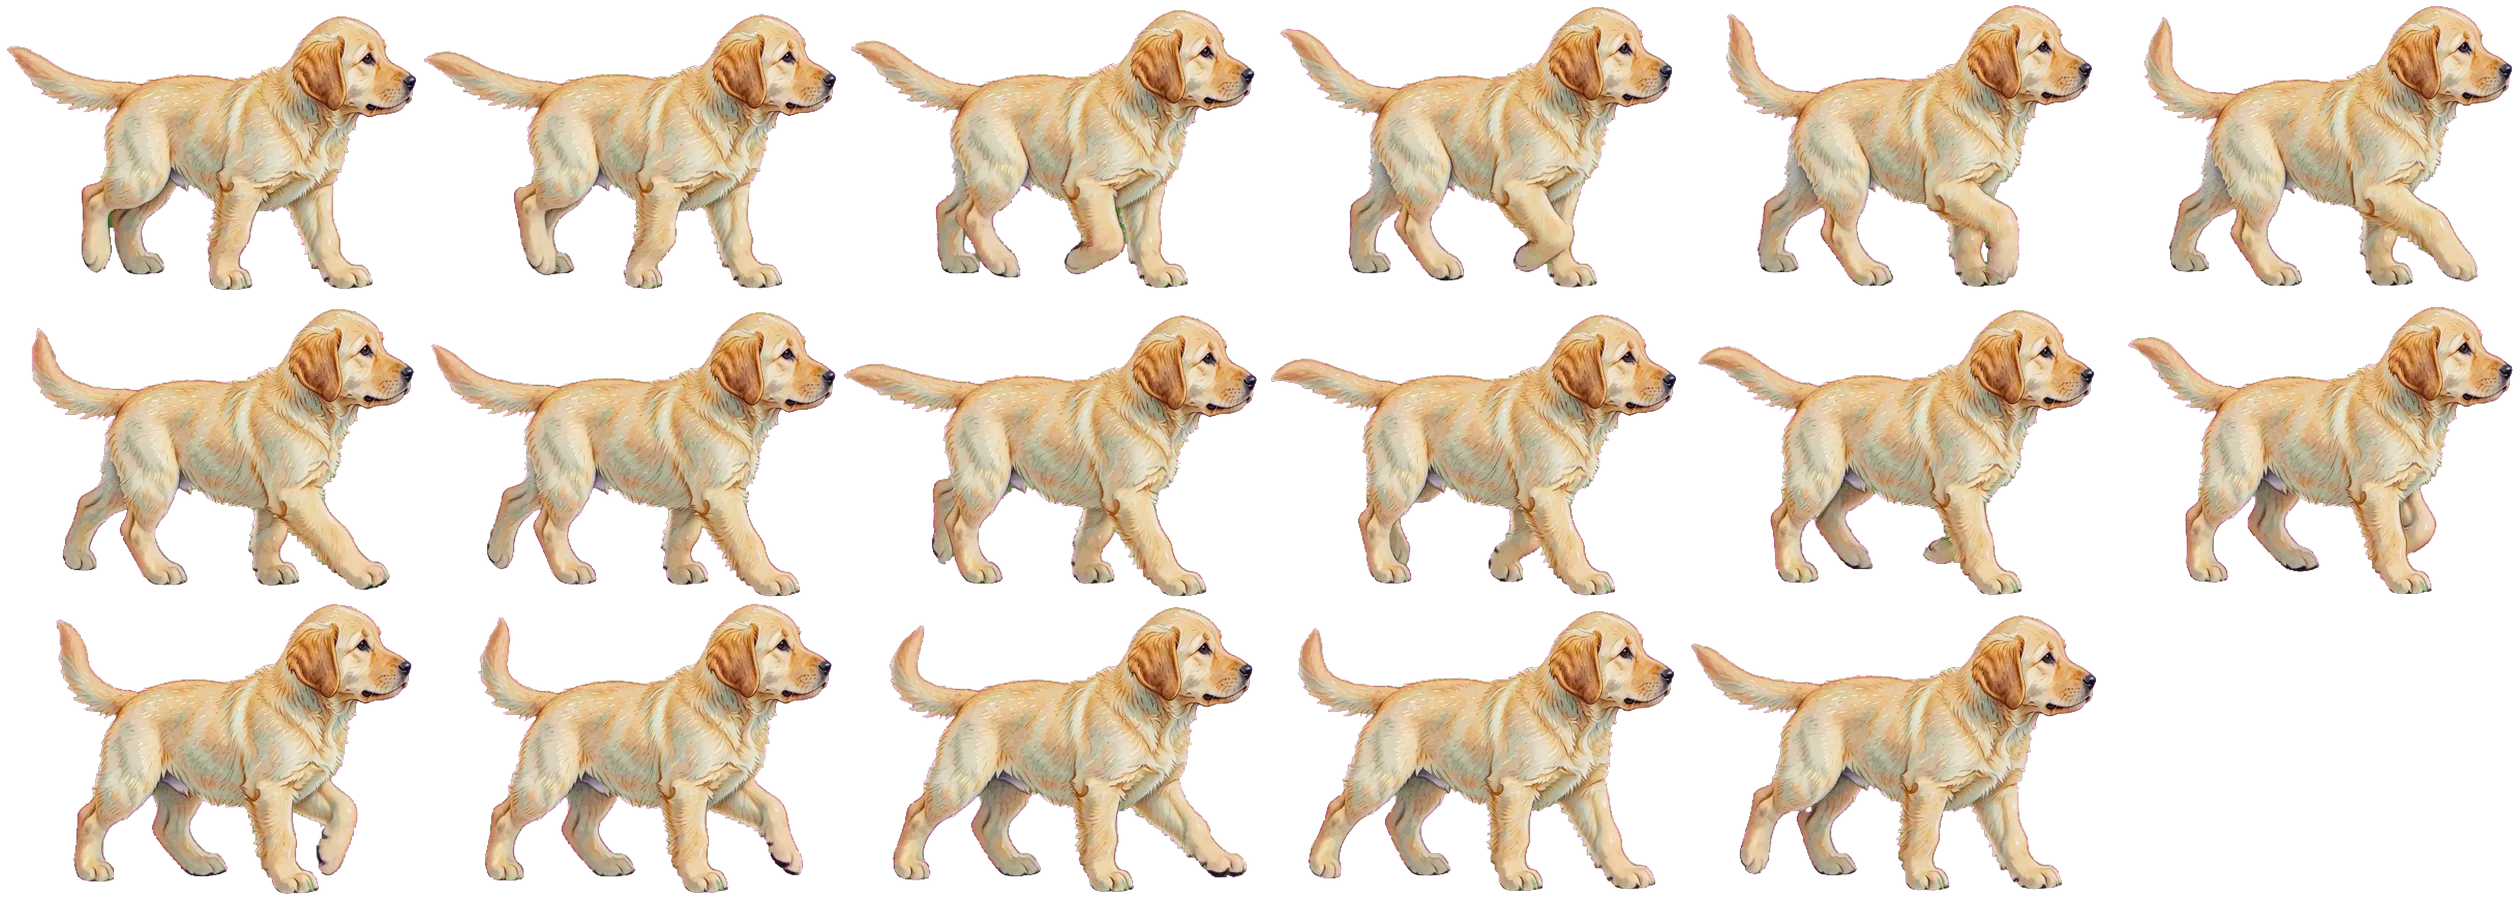
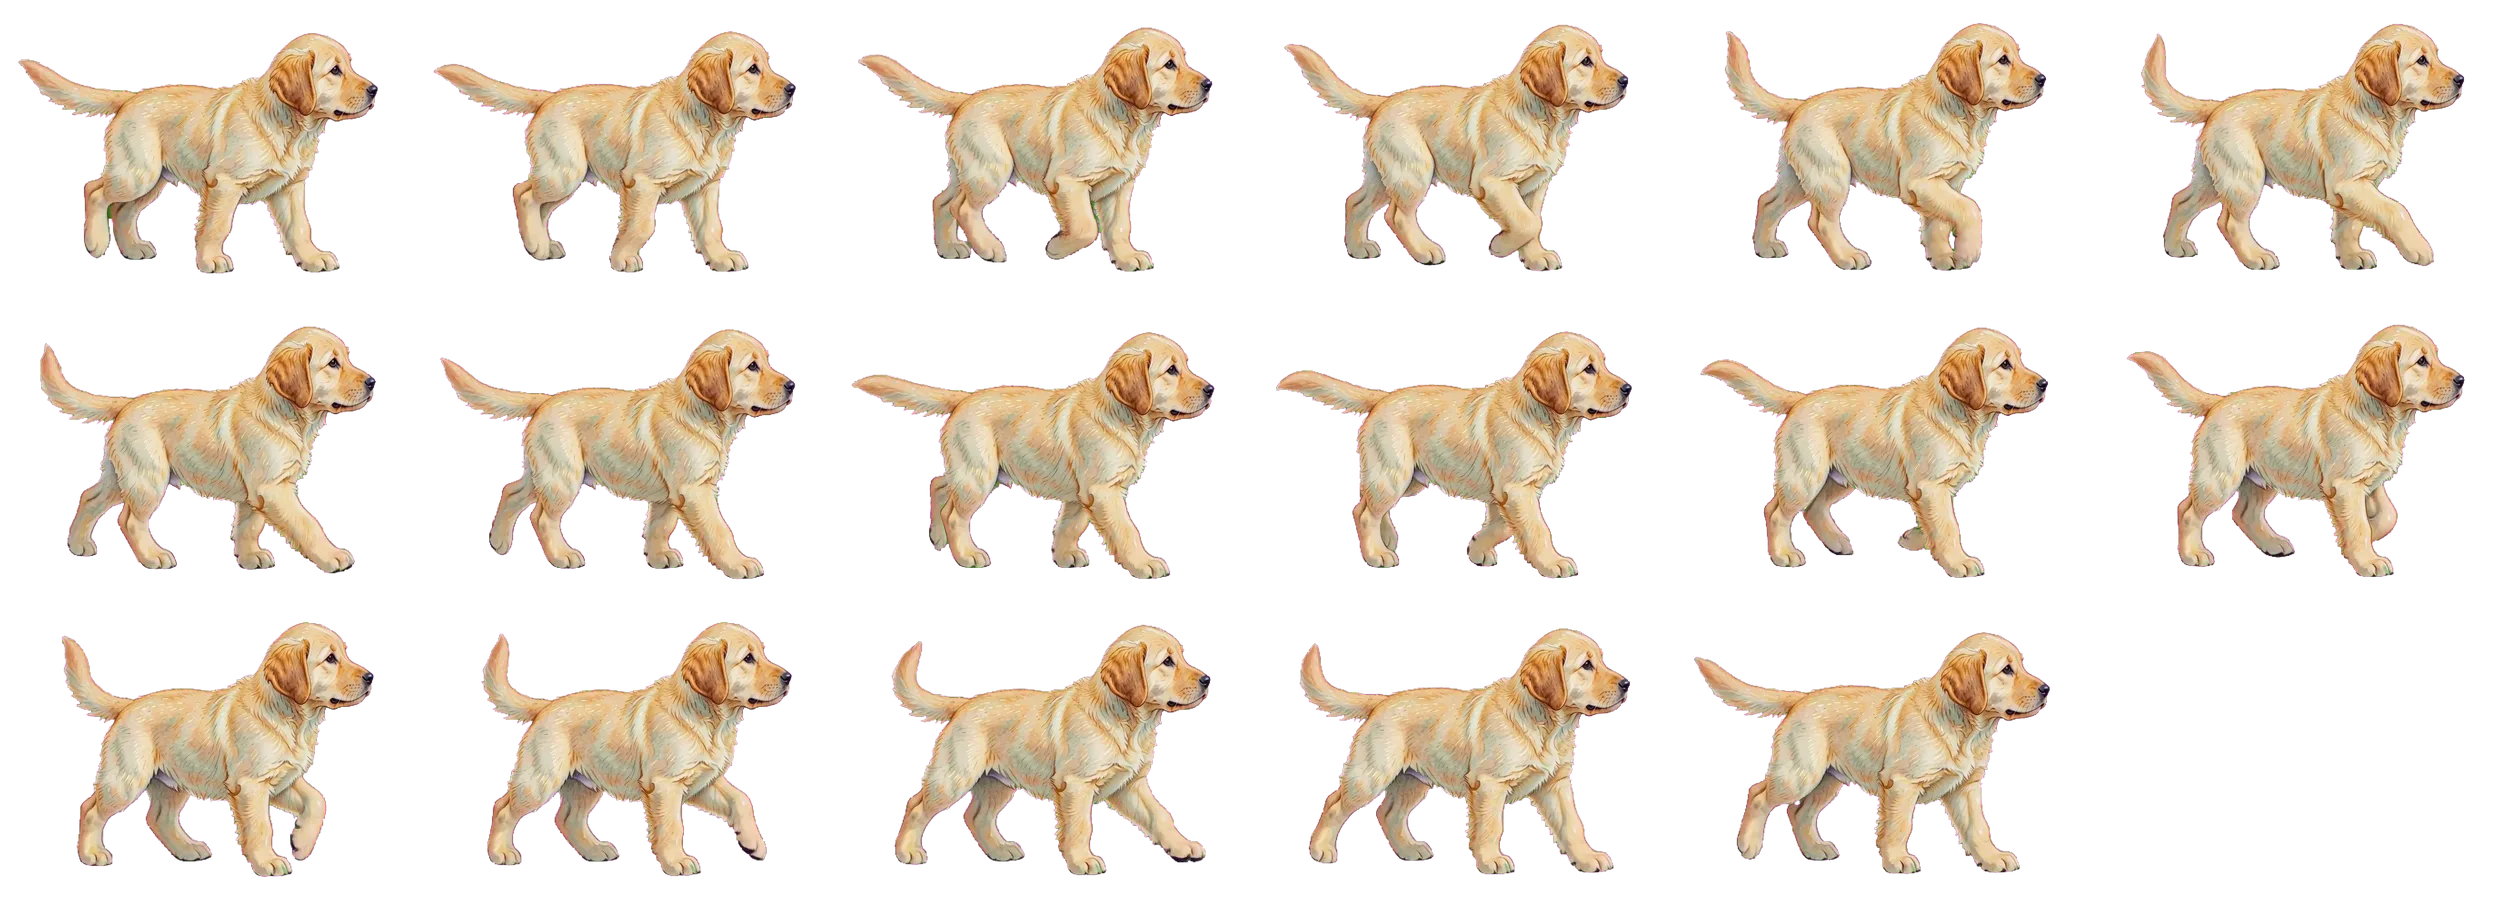
The puppy chases the bluebird about half the times it takes off: it gallops (a generated run clip) along the paths to below where the bird lands and sits down there watching it (a run-to-sit clip), then gets up and strolls on; walk, run and sit share one crop and ground

Changed region(s): [[0.0, 0.0, 1.0, 0.9956], [0.0, 0.6844, 0.0311, 0.7467]]

diff --git a/mobile/src/components/garden/critters/GardenCritters.tsx b/mobile/src/components/garden/critters/GardenCritters.tsx
@@ -3,11 +3,11 @@ import { memo, useEffect, useMemo, useRef, useState } from 'react';
 import { useDerivedValue, useReducedMotion, type SharedValue } from 'react-native-reanimated';
 import { isGardenGroundBlocked, isOnMonthLawn, monthLawnBounds } from '../fairy/gardenGround';
 import { usePlanting } from '../planting/PlantingContext';
-import { residents } from './gardenResidents';
-import { safeSegment, WALK_NETWORK } from '../fairy/walkNetwork';
+import { onBirdFlight, residents } from './gardenResidents';
+import { route, safeSegment, WALK_NETWORK, type Point } from '../fairy/walkNetwork';
 import SheetFrame from '../SheetFrame';
 import {
-  AWAY_SECONDS, burstLength, CRITTERS, leaveVisit, nextGap, planNextLeg, planVisit, pointAlong, visitDistance, visitPose, walkableEdges,
+  AWAY_SECONDS, burstLength, CHASE_CHANCE, CRITTERS, leaveVisit, nextGap, planChase, planNextLeg, planVisit, pointAlong, visitDistance, visitPose, walkableEdges,
   type CritterId, type Lawns, type Visit,
 } from './critterVisits';
 
@@ -17,10 +17,12 @@ import {
 // A painted motion: frames in a grid (scripts/critters/video-frames.py), `w` × `h` each. A
 // walk: `ground` the row the paws stand on, `loop` the world units walked over all its frames.
 // A flight: `fps`, played in time. `rest`: frames of settling down (same cells), played while it
-// rests between legs, and backwards as far as `rise` (standing) to get up again. `trail`: a
-// painted petal it sheds behind it while it moves.
+// rests between legs (`always`, or when the leg `sits`), and backwards as far as `rise`
+// (standing) to get up again. `run`: a running stride (same cells), for a leg that `chase`s.
+// `trail`: a painted petal it sheds behind it while it moves.
 type Frames = { columns: number; count: number; ground: number; loop: number; fps?: number;
-  rest?: { source: number; count: number; rise: number }; trail?: number };
+  rest?: { source: number; count: number; rise: number; always?: boolean };
+  run?: { source: number; columns: number; count: number; loop: number }; trail?: number };
 const ART: Record<CritterId, { source: number; frames?: Frames; w: number; h: number }> = {
   butterfly: { source: require('@/assets/garden/critters/butterfly.webp'), w: 448, h: 367 },
   // The bluebird flies in painted frames: a few wingbeats of a generated flying clip.
@@ -32,17 +34,26 @@ const ART: Record<CritterId, { source: number; frames?: Frames; w: number; h: nu
   // (scripts/critters/video-frames.py), every pose painted whole. `loop` is the ground their
   // planted paws cover in that stride, so they do not skid.
   hedgehog: { source: require('@/assets/garden/critters/hedgehog-walk.webp'), frames: { columns: 5, count: 13, ground: 277, loop: 30.2 }, w: 344, h: 280 },
-  puppy: { source: require('@/assets/garden/critters/puppy-walk.webp'), frames: { columns: 6, count: 17, ground: 297, loop: 41.9 }, w: 420, h: 300 },
+  // The puppy also runs (a gallop clip) when it chases the bluebird and sits down where it caught
+  // up (a clip from running to sitting); all three share one crop, ground and scale.
+  puppy: { source: require('@/assets/garden/critters/puppy-walk.webp'), w: 418, h: 300, frames: { columns: 6, count: 17, ground: 275, loop: 41.8,
+    run: { source: require('@/assets/garden/critters/puppy-run.webp'), columns: 5, count: 15, loop: 181.5 },
+    rest: { source: require('@/assets/garden/critters/puppy-sit.webp'), count: 16, rise: 2 } } },
   // The Silktail Fox spirit, generated from the Garden spirits design sheet: it gallops (several
   // strides of a running clip) shedding petals, then slows, stops and sits down to rest (a clip
   // from that same running pose), and gets up again (back to its standing frame, 24).
   silktail: { source: require('@/assets/garden/spirits/silktail-run.webp'), w: 240, h: 180,
     frames: { columns: 8, count: 47, ground: 167, loop: 394, trail: require('@/assets/garden/spirits/silktail-petal.webp'),
-      rest: { source: require('@/assets/garden/spirits/silktail-sit.webp'), count: 62, rise: 24 } } },
+      rest: { source: require('@/assets/garden/spirits/silktail-sit.webp'), count: 62, rise: 24, always: true } } },
 };
 const REST_FPS = 12;
 const EDGES = walkableEdges(WALK_NETWORK, isGardenGroundBlocked, (a, b) => safeSegment(a, b, isGardenGroundBlocked));
 const POINTS = WALK_NETWORK.nodes.filter(node => !isGardenGroundBlocked(node));
+// Where the puppy waits for a bird landing on `perch`: the path point nearest below it.
+const belowPerch = (perch: Point) => {
+  const under = { x: perch.x, y: perch.y + 80 };
+  return POINTS.reduce((best, p) => (Math.hypot(p.x - under.x, p.y - under.y) < Math.hypot(best.x - under.x, best.y - under.y) ? p : best));
+};
 
 // Schedules the visitors: one now and then until MAX_VISITORS are here, only while the Garden is
 // active. They stay, setting off again whenever a leg ends; after AWAY_SECONDS away they have
@@ -53,6 +64,7 @@ export default memo(function GardenCritters({ clock, active }: { clock: SharedVa
   const keyRef = useRef(0);
   const visitsRef = useRef(visits); visitsRef.current = visits;
   const awaySince = useRef<number | null>(null);
+  const chase = useRef<(to: Point) => void>(() => {});
   const { placements, isGardenLoading } = usePlanting();
   const unplanted = useMemo(() => {
     const planted = new Set(placements.map(p => p.month));
@@ -96,7 +108,17 @@ export default memo(function GardenCritters({ clock, active }: { clock: SharedVa
         return [planNextLeg({ visit, now, network: WALK_NETWORK, edges: EDGES, points: POINTS, random: Math.random, lawns: lawns.current }) ?? visit];
       }));
     }, 150);
-    return () => { clearTimeout(timer); clearInterval(legs); };
+    // The bluebird takes off: about half the time the puppy runs after it.
+    chase.current = (to: Point) => {
+      const now = clock.value, goal = belowPerch(to);
+      setVisits(current => current.map(visit => {
+        if (visit.id !== 'puppy' || visit.leaving || visit.fadeIn && now < visit.start + visit.lead) return visit;
+        const pose = visitPose(visit, now);
+        return planChase({ visit, now, path: route({ x: pose.x, y: pose.y }, goal, isGardenGroundBlocked) }) ?? visit;
+      }));
+    };
+    const unwatch = onBirdFlight(flight => { if (Math.random() < CHASE_CHANCE) chase.current(flight.to); });
+    return () => { clearTimeout(timer); clearInterval(legs); unwatch(); };
   }, [active, clock]);
   // Development only: window.__gardenCritters.spawn('rabbit') brings one now; .visits lists them.
   useEffect(() => {
@@ -104,6 +126,8 @@ export default memo(function GardenCritters({ clock, active }: { clock: SharedVa
     (window as unknown as { __gardenCritters?: unknown }).__gardenCritters = {
       visits: () => visitsRef.current.map(visit => ({ id: visit.id, from: visit.path[0], to: visit.path.at(-1) })),
       clear: () => setVisits([]),
+      // Send the puppy after the bluebird as if it had just taken off for `to`.
+      chase: (to: Point) => chase.current(to),
       unplanted: () => lawns.current.unplanted, lawnOf: (id: CritterId) => visitsRef.current.find(v => v.id === id)?.lawn,
       spawn: (id: CritterId) => {
         for (let attempt = 0; attempt < 40; attempt++) {
@@ -143,15 +167,21 @@ function FrameWalker({ visit, clock, sheet, frames, w, h }: { visit: Visit; cloc
     return [{ translateX: pose.x }, { translateY: pose.y }, { scaleX: (pose.dx < 0 ? -1 : 1) * scale }, { scaleY: scale },
       { translateX: -w / 2 }, { translateY: -frames.ground }];
   }, [visit, scale, w, frames]);
+  const running = Boolean(visit.chase && frames.run);
+  const stride = running ? frames.run! : frames;
   const frame = useDerivedValue(() => {
-    const along = reduced ? 0 : (visit.walked + visitDistance(visit, clock.value)) / frames.loop;
-    return Math.floor((along - Math.floor(along)) * frames.count) % frames.count;
-  }, [visit, frames, reduced]);
-  // Resting between legs (with a rest sheet): settling down, sitting, then getting up again.
+    const along = reduced ? 0 : (visit.walked + visitDistance(visit, clock.value)) / stride.loop;
+    return Math.floor((along - Math.floor(along)) * stride.count) % stride.count;
+  }, [visit, stride, reduced]);
+  const runSheet = useImage(frames.run?.source ?? null);
+  // Resting between legs (with a rest sheet): settling down, sitting, then getting up again; or,
+  // getting up only (`rising`, before a chase).
   const restSheet = useImage(frames.rest?.source ?? null);
   const restFrame = useDerivedValue(() => {
     const rest = frames.rest, e = clock.value - visit.start;
     if (!rest || visit.fadeIn || e < 0 || e >= visit.lead) return -1;
+    if (visit.rising) return Math.max(rest.rise, rest.count - 1 - Math.floor(e / visit.lead * (rest.count - rest.rise)));
+    if (!rest.always && !visit.sits) return -1;
     if (reduced) return rest.count - 1;
     const settle = rest.count / REST_FPS, rise = (rest.count - rest.rise) / REST_FPS;
     if (e < settle) return Math.floor(e * REST_FPS);
@@ -173,7 +203,9 @@ function FrameWalker({ visit, clock, sheet, frames, w, h }: { visit: Visit; cloc
     </Group>
     {frames.trail ? <PetalTrail visit={visit} clock={clock} source={frames.trail} reduced={!!reduced} /> : null}
     <Group transform={transform}>
-      <Group opacity={walkOpacity}><SheetFrame sheet={sheet} frame={frame} columns={frames.columns} count={frames.count} w={w} h={h} /></Group>
+      <Group opacity={walkOpacity}>{running && runSheet
+        ? <SheetFrame sheet={runSheet} frame={frame} columns={frames.run!.columns} count={frames.run!.count} w={w} h={h} />
+        : <SheetFrame sheet={sheet} frame={frame} columns={frames.columns} count={frames.count} w={w} h={h} />}</Group>
       {restSheet && frames.rest ? <Group opacity={restOpacity}><SheetFrame sheet={restSheet} frame={restCell} columns={frames.columns} count={frames.rest.count} w={w} h={h} /></Group> : null}
     </Group>
   </Group>;

diff --git a/mobile/src/components/garden/critters/critterVisits.ts b/mobile/src/components/garden/critters/critterVisits.ts
@@ -28,8 +28,8 @@ export const CRITTERS: Readonly<Record<CritterId, CritterSpec>> = {
   rabbit: { id: 'rabbit', kind: 'walker', size: 104, speed: 138, altitude: [0, 0] },
   // The hedgehog's pace matches its painted steps: 30.2 units each 1.08 s.
   hedgehog: { id: 'hedgehog', kind: 'walker', size: 64, speed: 28, altitude: [0, 0] },
-  // The puppy's pace matches its painted stride: 41.9 units each 1.42 s.
-  puppy: { id: 'puppy', kind: 'walker', size: 100, speed: 30, altitude: [0, 0] },
+  // The puppy's pace matches its painted stride: 41.8 units each 1.42 s (it runs at RUN_SPEED).
+  puppy: { id: 'puppy', kind: 'walker', size: 113, speed: 29.5, altitude: [0, 0] },
   // The fox runs: its pace matches its painted gallop, 394 units each 3.92 s.
   silktail: { id: 'silktail', kind: 'walker', size: 170, speed: 100.6, altitude: [0, 0] },
 };
@@ -65,7 +65,27 @@ export type Visit = {
   lead: number; fadeIn: boolean; walked: number;
   // The lawn (month) a lawn animal plays on; `leaving`: fading out where it stands.
   lawn?: number; leaving?: boolean;
+  // The puppy: `chase`, running after the bluebird; `sits`, sitting where it caught up (its rest
+  // is sitting down, sitting, getting up); `rising`, getting up before it runs off again.
+  chase?: boolean; sits?: boolean; rising?: boolean;
 };
+
+// The puppy chases the bluebird about half the times it takes off: it runs (its painted gallop,
+// RUN_SPEED to match) along the paths to the one nearest below where the bird will land, sits
+// there watching it for SIT_SECONDS, and then strolls on.
+export const CHASE_CHANCE = 0.5;
+export const RUN_SPEED = 145;
+export const SIT_SECONDS: [number, number] = [14, 28];
+export const RISE_SECONDS = 1.2;
+const RUNNING: Rhythm = { cycle: 0, moving: 1 };
+export function planChase({ visit, now, path }: { visit: Visit; now: number; path: Point[] | null }): Visit | null {
+  if (!path || path.length < 2 || pathLength(path) < 40) return null;
+  // Sitting: get up first.
+  const rising = Boolean(visit.sits) && now < visit.start + visit.lead;
+  const lead = rising ? RISE_SECONDS : 0.15;
+  return { ...visit, path, start: now, lead, fadeIn: false, walked: visit.walked + visitDistance(visit, now),
+    chase: true, sits: false, rising, speed: RUN_SPEED, rhythm: RUNNING, duration: lead + pathLength(path) / RUN_SPEED };
+}
 
 // The rabbit and the hedgehog play only on lawns with no flowers yet, one animal to a lawn (and
 // the rabbit never on the butterfly's lawn). Once every lawn has flowers they walk the paths.
@@ -213,14 +233,17 @@ export function planNextLeg({ visit, now, network, edges, points, random, lawns 
   visit: Visit; now: number; network: Network; edges: Network['edges']; points: readonly Point[]; random: () => number; lawns?: Lawns;
 }): Visit | null {
   const spec = CRITTERS[visit.id], gone = visitDistance(visit, visit.start + visit.duration);
+  // After a chase the puppy sits a while where it caught up, then walks on at its own pace.
+  const after = visit.chase ? { sits: true, chase: false, rising: false, speed: spec.speed, rhythm: RHYTHMS[visit.id] } : { sits: false, rising: false };
+  const rest = () => (visit.chase ? between(SIT_SECONDS, random) : between(REST[visit.id], random));
   if (visit.lawn !== undefined && lawns) {
     // On its lawn: stroll on from where it stopped; a planted lawn is left (leaveVisit).
     const end = visitPose(visit, visit.start + visit.duration);
     const path = planLawnWalk(visit.lawn, lawns, random, { x: end.x, y: end.y });
     if (!path) return null;
-    const lead = between(REST[visit.id], random);
-    return { ...visit, path, start: now, lead, fadeIn: false, walked: visit.walked + gone,
-      duration: lead + travelSeconds(pathLength(path) / spec.speed, visit.rhythm) };
+    const lead = rest();
+    return { ...visit, ...after, path, start: now, lead, fadeIn: false, walked: visit.walked + gone,
+      duration: lead + travelSeconds(pathLength(path) / spec.speed, RHYTHMS[visit.id]) };
   }
   // Where it stopped (walkers move in whole steps, so maybe short of the last point) and the
   // path point ahead of it: a walker finishes that segment, then strolls on from there.
@@ -230,15 +253,16 @@ export function planNextLeg({ visit, now, network, edges, points, random, lawns 
     if (gone < along - 1e-6) { ahead = i; break; }
   }
   const pose = visitPose(visit, visit.start + visit.duration), here = { x: pose.x, y: pose.y };
-  const node = network.nodes.indexOf(visit.path[ahead]);
+  const target = visit.path[ahead];
+  const node = network.nodes.findIndex(n => Math.abs(n.x - target.x) < 1e-3 && Math.abs(n.y - target.y) < 1e-3);
   const onward = spec.kind === 'walker' && node >= 0 ? planWalk(network, edges, random, undefined, node) : null;
   const path = spec.kind === 'walker'
     ? (onward ? (distance(here, onward[0]) > 1e-6 ? [here, ...onward] : onward) : null)
     : planFlight(points, spec, random, undefined, here);
   if (!path || path.length < 2) return null;
-  const lead = between(REST[visit.id], random);
-  return { ...visit, path, start: now, lead, fadeIn: false, walked: visit.walked + gone,
-    duration: lead + travelSeconds(pathLength(path) / spec.speed, visit.rhythm) };
+  const lead = rest();
+  return { ...visit, ...after, path, start: now, lead, fadeIn: false, walked: visit.walked + gone,
+    duration: lead + travelSeconds(pathLength(path) / spec.speed, visit.chase ? RHYTHMS[visit.id] : visit.rhythm) };
 }
 
 // How long a visitor travels to move for `moving` seconds. In bursts it is a whole number of
